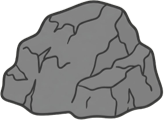
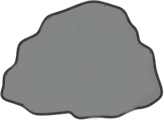
feat: Modificar botones modulo sembrar y añadir roca cuarteada

diff --git a/src/scenes/PreloadScene.js b/src/scenes/PreloadScene.js
@@ -48,9 +48,9 @@ export default class PreloadScene extends Phaser.Scene {
         this.load.image("ArbolEsquinaSuperiorIzquierda","images/decorations/ArbolEsquinaSuperiorIzquierdav2.png");
 
         // Modulo Sembrar
-        this.load.image("btnLimpiarTerreno", "images/buttons/btnLimpiarTerreno2v.png");
-        this.load.image("btnPrepararTierra", "images/buttons/btnPrepararTierrav2.png");
-        this.load.image("btnPlantarPlantula", "images/buttons/btnPlantarPlantulav2.png");
+        this.load.image("btnLimpiarTerreno", "images/buttons/btnLimpiarTerreno3v.png");
+        this.load.image("btnPrepararTierra", "images/buttons/btnPrepararTierra3v.png");
+        this.load.image("btnPlantarPlantula", "images/buttons/btnPlantarPlantula3v.png");
         this.load.image("CacaitoSembrando", "images/characters/CacaitoSembrando.png");
 
         this.load.image("EstrellaLlena", "images/ui/EstrellaLlena.png");
